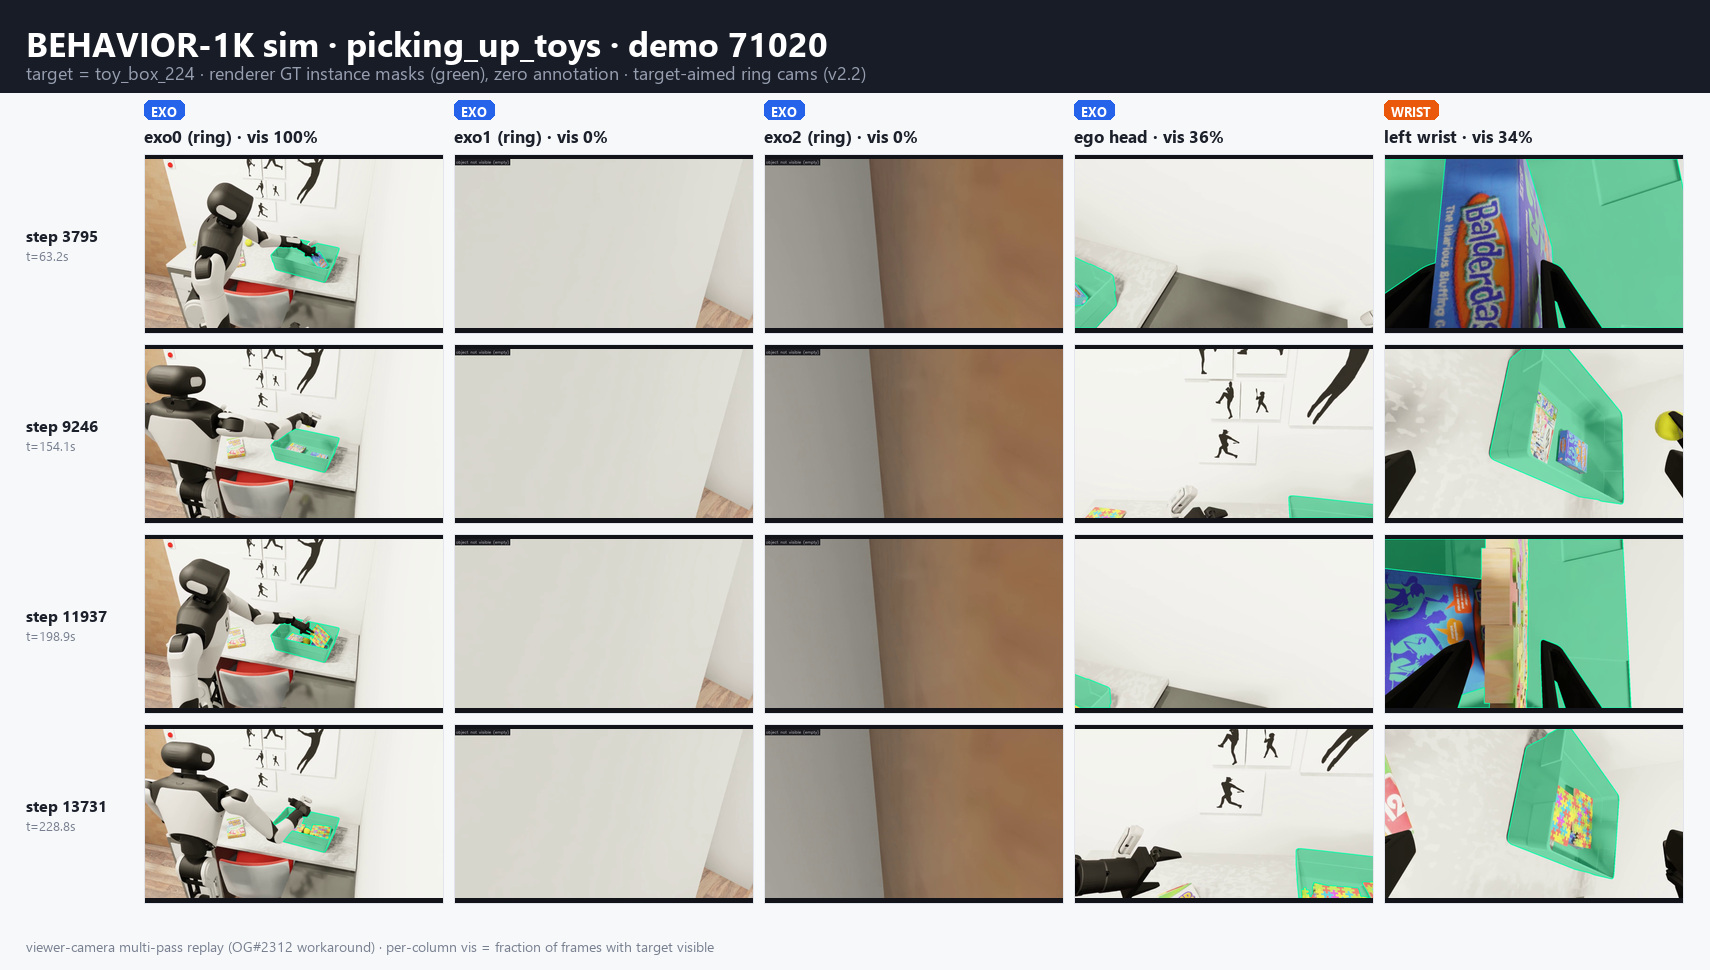
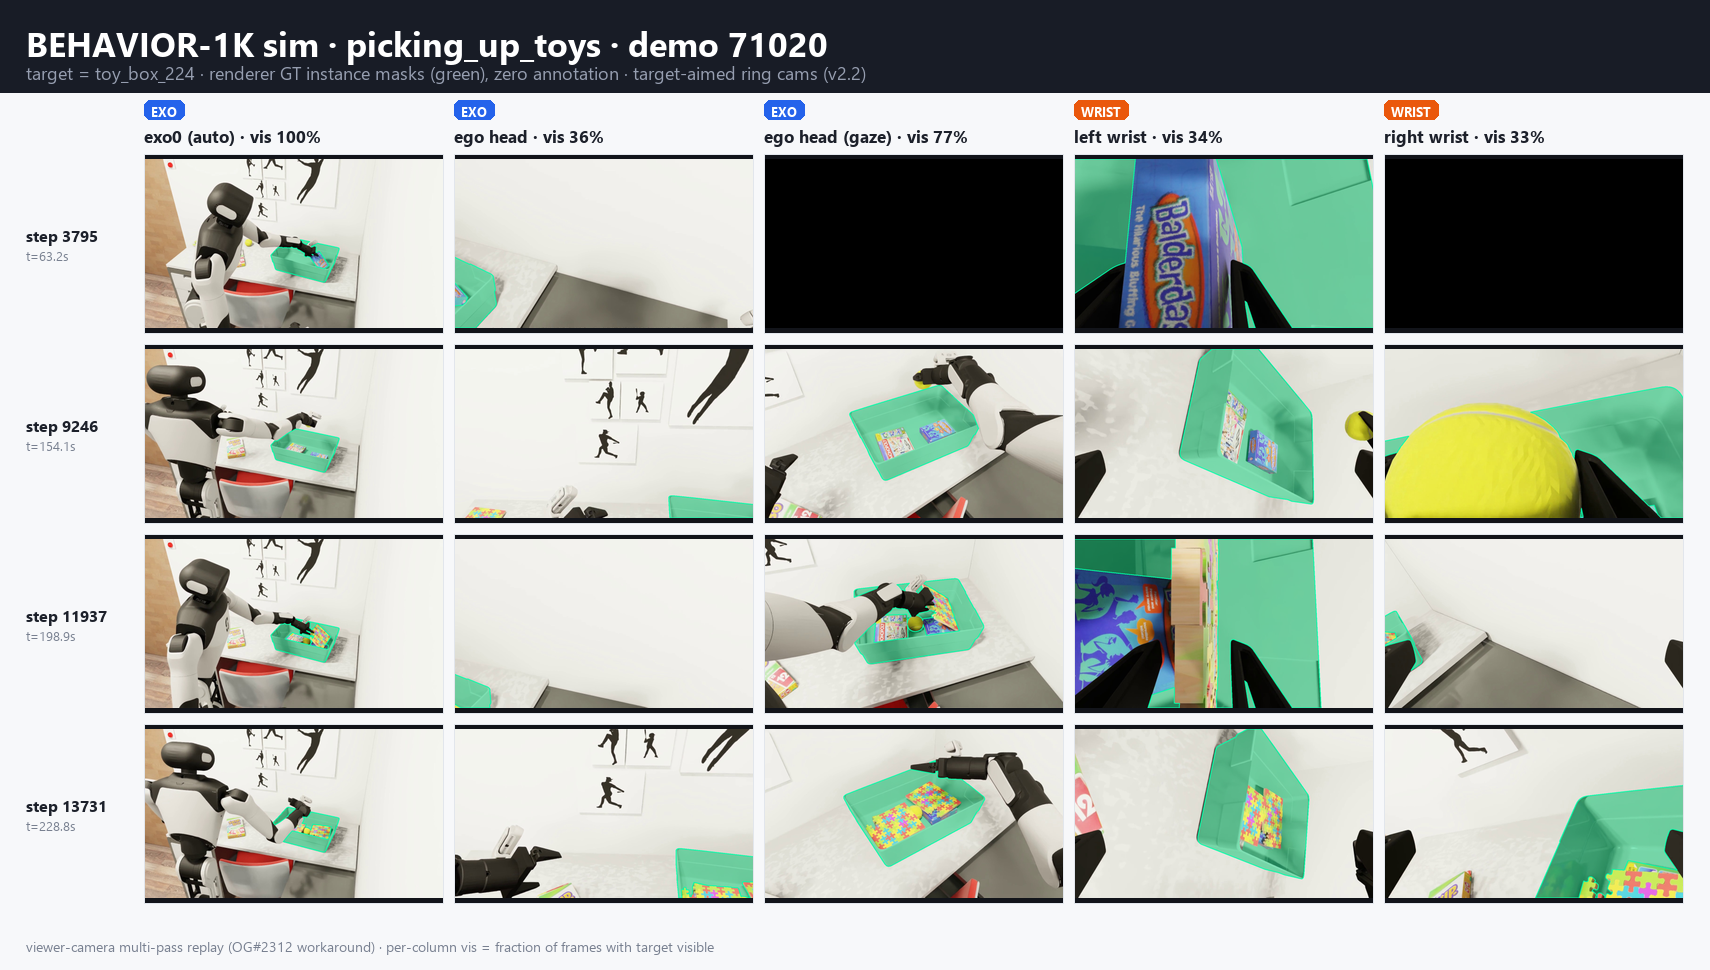
Refresh sim cards with joint-visibility frame picker; add four new-scene cards

diff --git a/BehaviorPilot/render_bundle_cards.py b/BehaviorPilot/render_bundle_cards.py
@@ -20,7 +20,9 @@ sys.path.insert(0, str(ROOT.parent / "RoboInter-Data"))
 from visualize_robointer_masks import overlay_mask  # noqa: E402
 
 DEMO_TASK = {"1550": "turning_on_radio", "50220": "setting_mousetraps",
-             "71020": "picking_up_toys", "42750": "can_meat"}
+             "71020": "picking_up_toys", "42750": "can_meat",
+             "720270": "cook_a_frozen_pie", "822240": "store_batteries",
+             "942050": "dispose_of_batteries", "761590": "dispose_of_glass"}
 VIEW_ORDER = ["exo0", "exo1", "exo2", "head", "head_gaze", "left_wrist", "right_wrist"]
 LABEL = {"exo0": "exo0 (auto)", "exo1": "exo1 (auto)", "exo2": "exo2 (auto)",
          "head": "ego head", "head_gaze": "ego head (gaze)",
@@ -33,6 +35,10 @@ def render_demo(demo_dir: Path) -> None:
     if not views:
         return
     metas = {v: json.loads((demo_dir / v / "meta.json").read_text()) for v in views}
+    # drop dead columns (target basically never visible) unless that leaves too few
+    live = [v for v in views if metas[v]["visible_frac"] >= 0.05]
+    if len(live) >= 2:
+        views = live
     idxs = metas[views[0]]["idxs"]
     target = metas[views[0]]["target"].get("name", "?")
 
@@ -54,7 +60,7 @@ def render_demo(demo_dir: Path) -> None:
         names.append(f"{LABEL[v]} · vis {m['visible_frac']:.0%}")
     rows = [(f"step {t}", f"t={t / 60:.1f}s", [cols[c][k] for c in range(len(views))])
             for k, t in enumerate(idxs)]
-    task = DEMO_TASK.get(demo, "?")
+    task = DEMO_TASK.get(demo, "task")
     out = ROOT / "samples" / f"{demo}_{task}_crossview_gt.png"
     build_montage(
         out,
